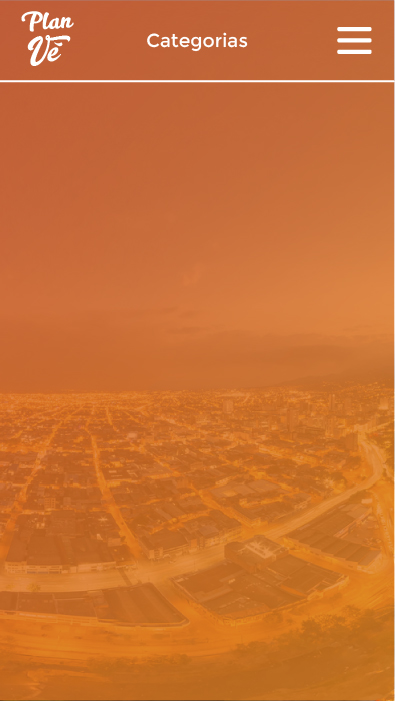
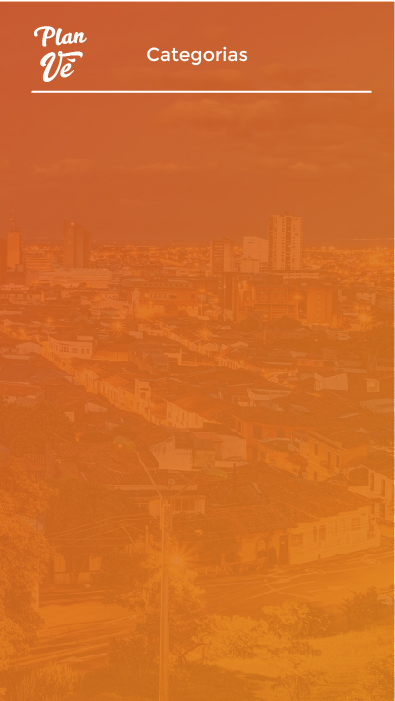
categorias

diff --git a/src/appPlanCali/Logica.java b/src/appPlanCali/Logica.java
@@ -18,7 +18,7 @@ public class Logica {
 	private PImage crearplan, crearplans, topic, topics, topten, toptens, perfil, perfils;
 	private PImage opmenup, opmenut, opmenuc, opmenucp, opmenucc, opmenua, opmenucs, opmenups, opmenuts, opmenucsel,
 			opmenucpsel, opmenuccs, opmenuas, opmenucssel;
-	private PImage likes, likessel, friends, friendsselect,planes, planesselect; 
+	private PImage likes, likessel, friends, friendsselect, planes, planesselect, btn_nature, btn_natures, btn_deporte,btn_deportes, btn_cultura, btn_culturas, btn_hobbie, btn_hobbies;
 	private int index;
 	private String name, user, email, pass, adress;
 	private Analisis analisis;
@@ -36,8 +36,8 @@ public class Logica {
 		// analisis = new Analisis(excel.getLugares(), excel.getUsuarios());
 		usuarios = excel.getUsuarios();
 
-		pantalla = 23;
-		pantallasImg = new PImage[24];
+		pantalla = 18;
+		pantallasImg = new PImage[25];
 
 		index = 6;
 		name = "";
@@ -118,17 +118,26 @@ public class Logica {
 
 		cpscreen = app.loadImage("../data/Recursos_Pantallas/cp_screen.jpg");
 		cpscreen2 = app.loadImage("../data/Recursos_Pantallas/cp_screen2.jpg");
-		
-		
-		// PANTALLA 23 PERFIL BOTONES 
-		
+
+		// PANTALLA 23 PERFIL BOTONES
+
 		likes = app.loadImage("../data/Recursos_Pantallas/likes.png");
 		likessel = app.loadImage("../data/Recursos_Pantallas/likessel.png");
-		friends =  app.loadImage("../data/Recursos_Pantallas/friends.png");
-		friendsselect =  app.loadImage("../data/Recursos_Pantallas/friendsselect.png");
-		planes =  app.loadImage("../data/Recursos_Pantallas/planes.png");
-		planesselect =  app.loadImage("../data/Recursos_Pantallas/planesselect.png");
+		friends = app.loadImage("../data/Recursos_Pantallas/friends.png");
+		friendsselect = app.loadImage("../data/Recursos_Pantallas/friendsselect.png");
+		planes = app.loadImage("../data/Recursos_Pantallas/planes.png");
+		planesselect = app.loadImage("../data/Recursos_Pantallas/planesselect.png");
 		
+		// PANTALLA 24 PERFIL BOTONES
+		
+		btn_nature = app.loadImage("../data/Recursos_Pantallas/btn_nature.png");
+		btn_natures = app.loadImage("../data/Recursos_Pantallas/btn_natures.png");
+		btn_cultura = app.loadImage("../data/Recursos_Pantallas/btn_culture.png");
+		btn_culturas = app.loadImage("../data/Recursos_Pantallas/btn_cultures.png");
+		btn_hobbie =  app.loadImage("../data/Recursos_Pantallas/btn_hobbie.png");
+		btn_hobbies =  app.loadImage("../data/Recursos_Pantallas/btn_hobbies.png");
+		btn_deporte =  app.loadImage("../data/Recursos_Pantallas/btn_deporte.png");
+		btn_deportes =  app.loadImage("../data/Recursos_Pantallas/btn_deportes.png");
 
 		// -----------------------------------------------------------------
 
@@ -319,7 +328,7 @@ public class Logica {
 			}
 		} else if (pantalla == 19) {
 
-			/// CREAR PLAN 
+			/// CREAR PLAN
 			app.image(cpscreen, 0, 0);
 
 			app.image(cpscreen2, 0, 600);
@@ -359,25 +368,38 @@ public class Logica {
 			} else {
 				app.image(iconmenu, 330, 20, 59, 43);
 			}
-			
-			if (app.mouseX > 38 && app.mouseX< 128 && app.mouseY>302 && app.mouseY < 392 ) {
-				app.image(friendsselect, 35, 300);	
-			}else {
-				app.image(friends, 35, 300);	
+
+			if (app.mouseX > 38 && app.mouseX < 128 && app.mouseY > 302 && app.mouseY < 392) {
+				app.image(friendsselect, 35, 300);
+			} else {
+				app.image(friends, 35, 300);
 			}
-			
-			if (app.mouseX > 150 && app.mouseX< 241 && app.mouseY>302 && app.mouseY < 392 ) {
+
+			if (app.mouseX > 150 && app.mouseX < 241 && app.mouseY > 302 && app.mouseY < 392) {
 				app.image(likessel, 150, 300);
-			}else {
+			} else {
 				app.image(likes, 150, 300);
 			}
-			
-			if (app.mouseX > 266 && app.mouseX< 356 && app.mouseY>302 && app.mouseY < 392 ) {
-			
-			app.image(planesselect, 265, 300);		
-			}	else {
-				app.image(planes, 265, 300);		
+
+			if (app.mouseX > 266 && app.mouseX < 356 && app.mouseY > 302 && app.mouseY < 392) {
+
+				app.image(planesselect, 265, 300);
+			} else {
+				app.image(planes, 265, 300);
 			}
+		} else if (pantalla == 24) {
+
+			// BUTTON MENU DESPLEGABLE
+			if (app.mouseX > 340 && app.mouseX < 380 && app.mouseY > 23 && app.mouseY < 60) {
+				app.image(iconmenu, 330, 19, 62, 46);
+			} else {
+				app.image(iconmenu, 330, 20, 59, 43);
+			}
+			
+			
+			//app.image(btn_nature, 0, 300);
+			
+
 		}
 
 	}
@@ -386,7 +408,7 @@ public class Logica {
 		// TODO Auto-generated method stub
 
 		System.out.println(pantalla);
-		
+
 		mX = x;
 		mY = y; // Detectar coordenada inicial del mouse
 
@@ -587,15 +609,15 @@ public class Logica {
 				pantalla = 19;
 			} else if (x >= 320 && x <= 380 && y >= 20 && y <= 63) {
 				pantalla = 18;
-				
+
 			} else if (x > 198 && x <= 400 && y > 505 && y < 705) {
 				// IR A PERFIL
 				pantalla = 23;
-			// PERFIL 
+				// PERFIL
 			} else if (x > 0 && x < 200 && y > 505 && y < 705) {
-				pantalla = 22;
-				
-				
+
+				pantalla = 24; // CATEGORIAS
+
 			} else if (x > 198 && x < 400 && y > 310 && y < 510) {
 				pantalla = 21; // top recomendados
 
@@ -607,13 +629,16 @@ public class Logica {
 
 			if (x > 340 && x < 380 && y > 23 && y < 60) {
 				pantalla = 17;
-				
-			// perfil 
+
+				// perfil
 			} else if (x > 0 && x < 323 && y > 140 && y < 200) {
 				pantalla = 23;
 			} else if (x > 0 && x < 323 && y > 200 && y < 260) {
 				pantalla = 21;
-			}else if (x > 0 && x < 323 && y > 320 && y < 380) { 
+			} else if (x > 0 && x < 323 && y > 260 && y < 320) {
+				pantalla = 24;
+
+			} else if (x > 0 && x < 323 && y > 320 && y < 380) {
 				pantalla = 19;
 			}
 
@@ -628,7 +653,7 @@ public class Logica {
 					pantalla = 20;
 				}
 			}
-			
+
 			if (x > 340 && x < 380 && y > 23 && y < 60) {
 				pantalla = 18;
 			}
@@ -656,14 +681,16 @@ public class Logica {
 			if (x >= 320 && x <= 380 && y >= 20 && y <= 63) {
 				pantalla = 18;
 			}
-			
-			// BOTONES ADICIONALES 
-			
-			
-			
-			
-			
 
+			// BOTONES ADICIONALES
+
+			break;
+
+		case 24:
+			// boton menu
+			if (x >= 320 && x <= 380 && y >= 20 && y <= 63) {
+				pantalla = 18;
+			}
 			break;
 
 		}
